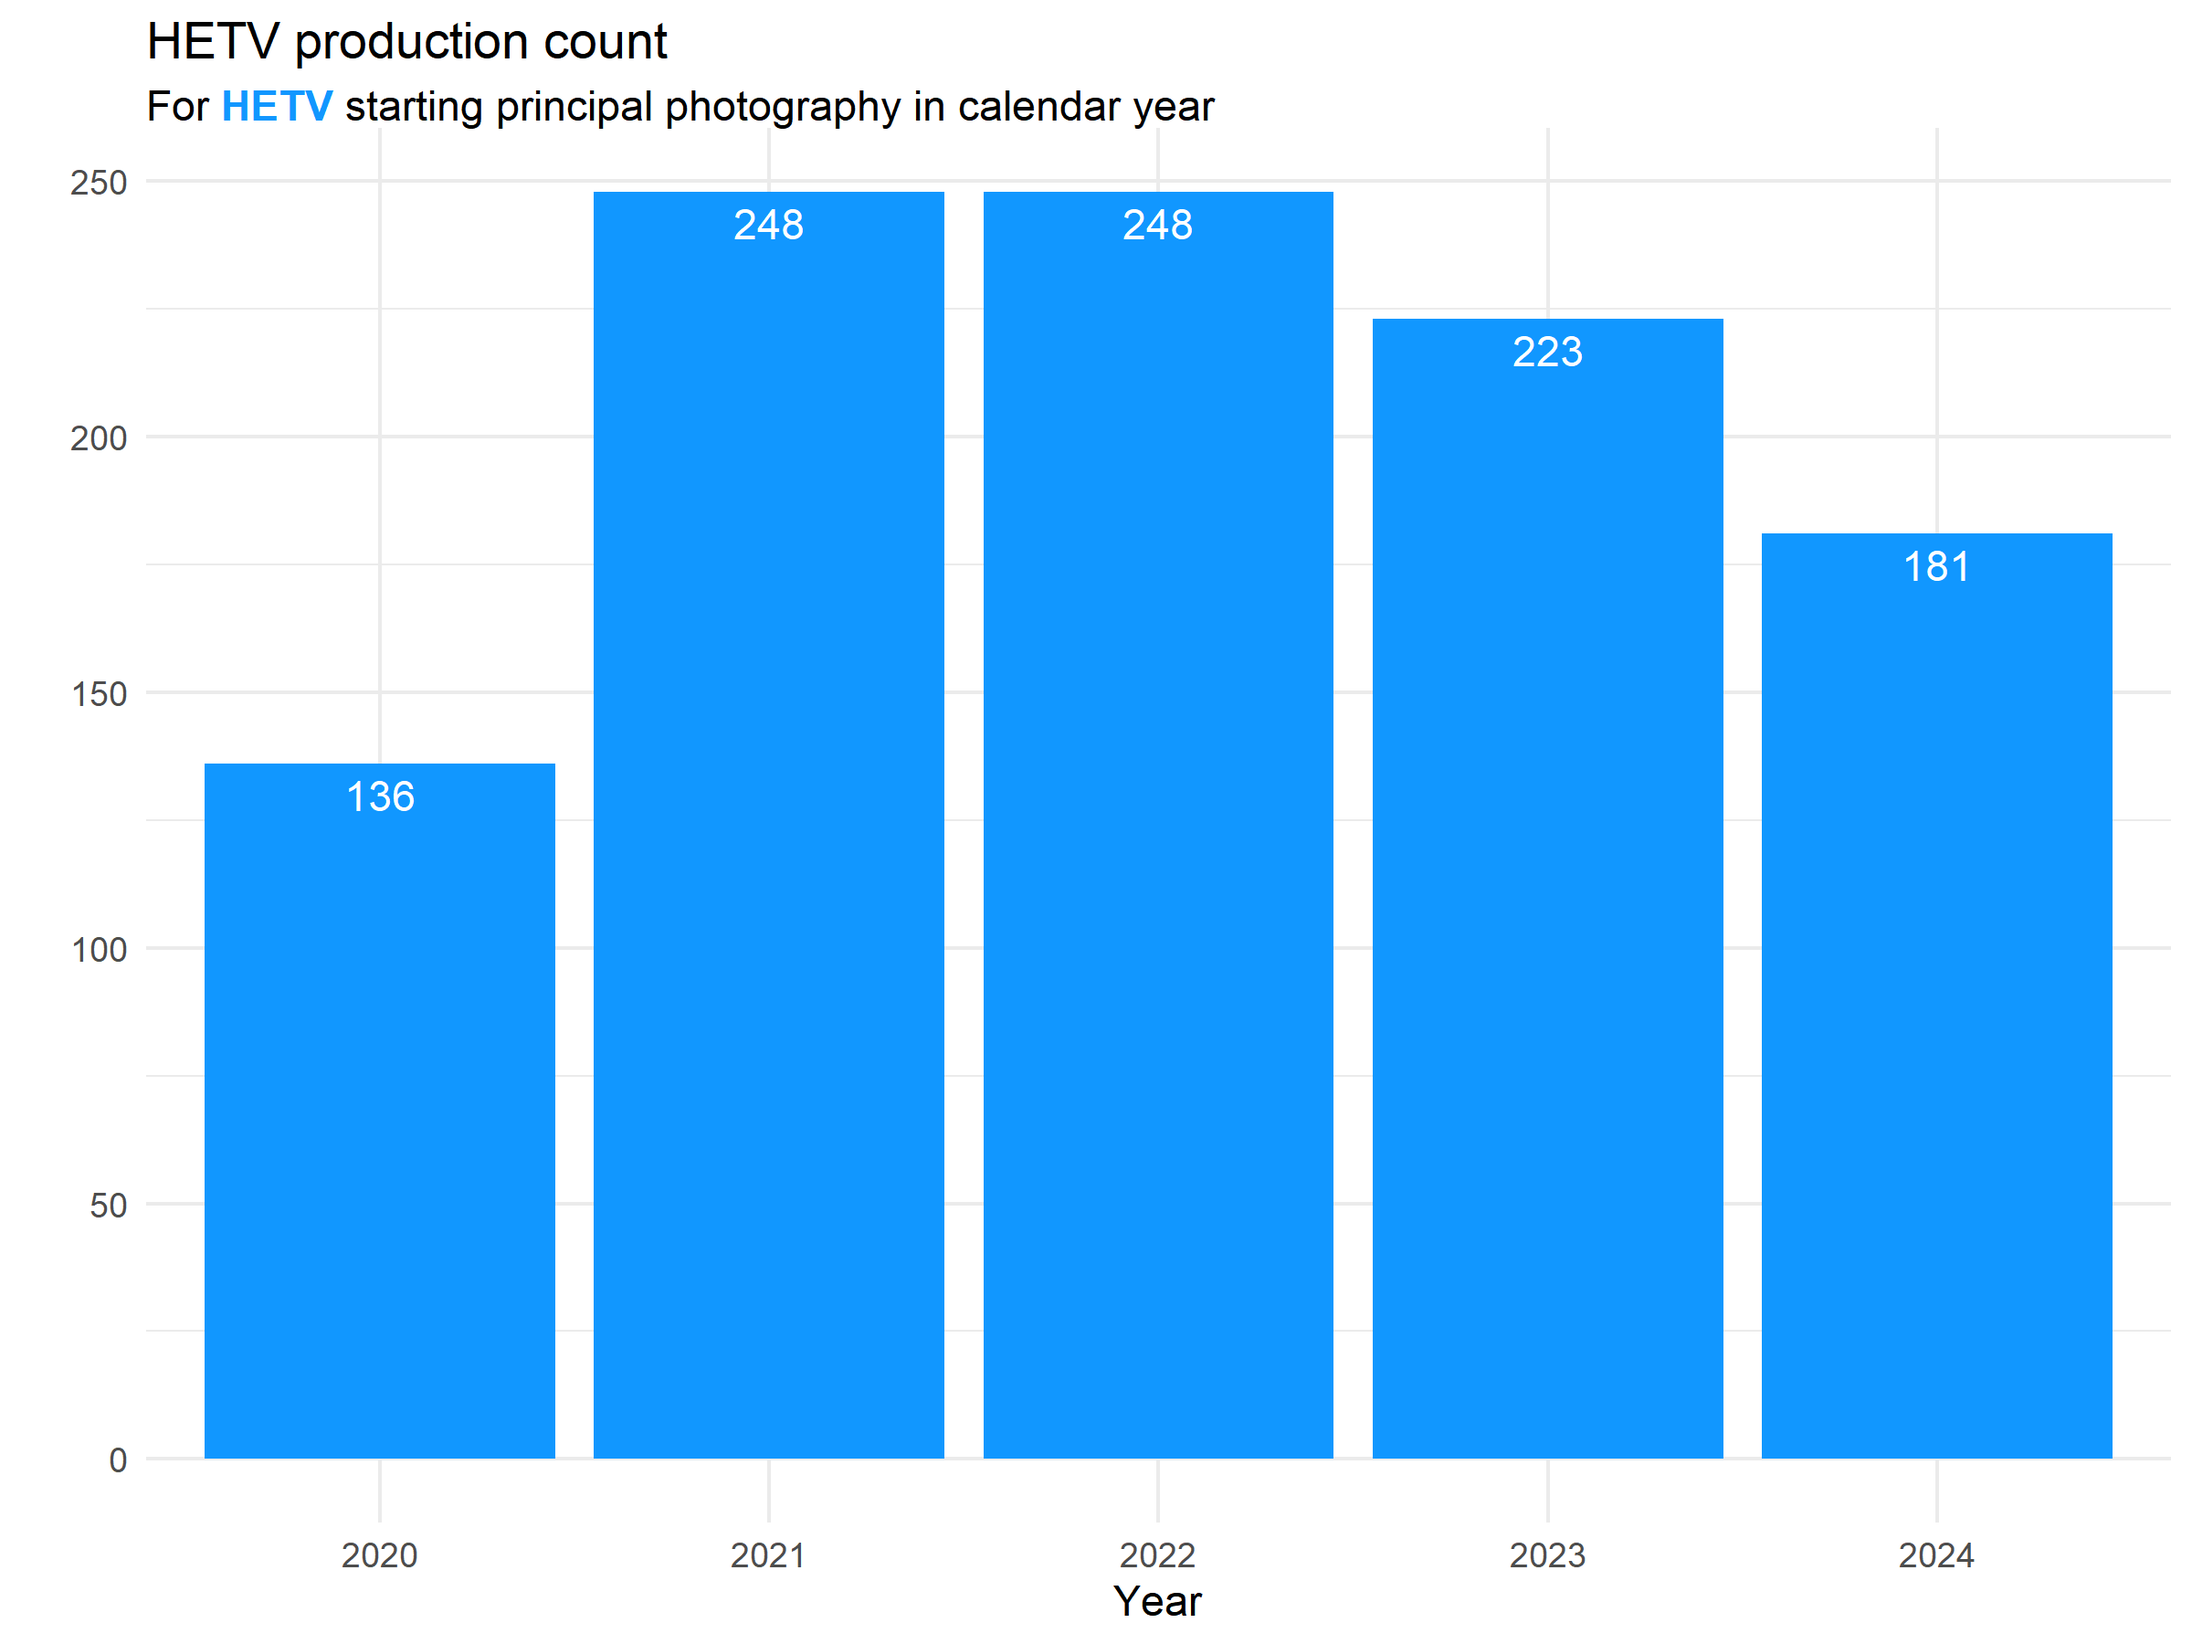
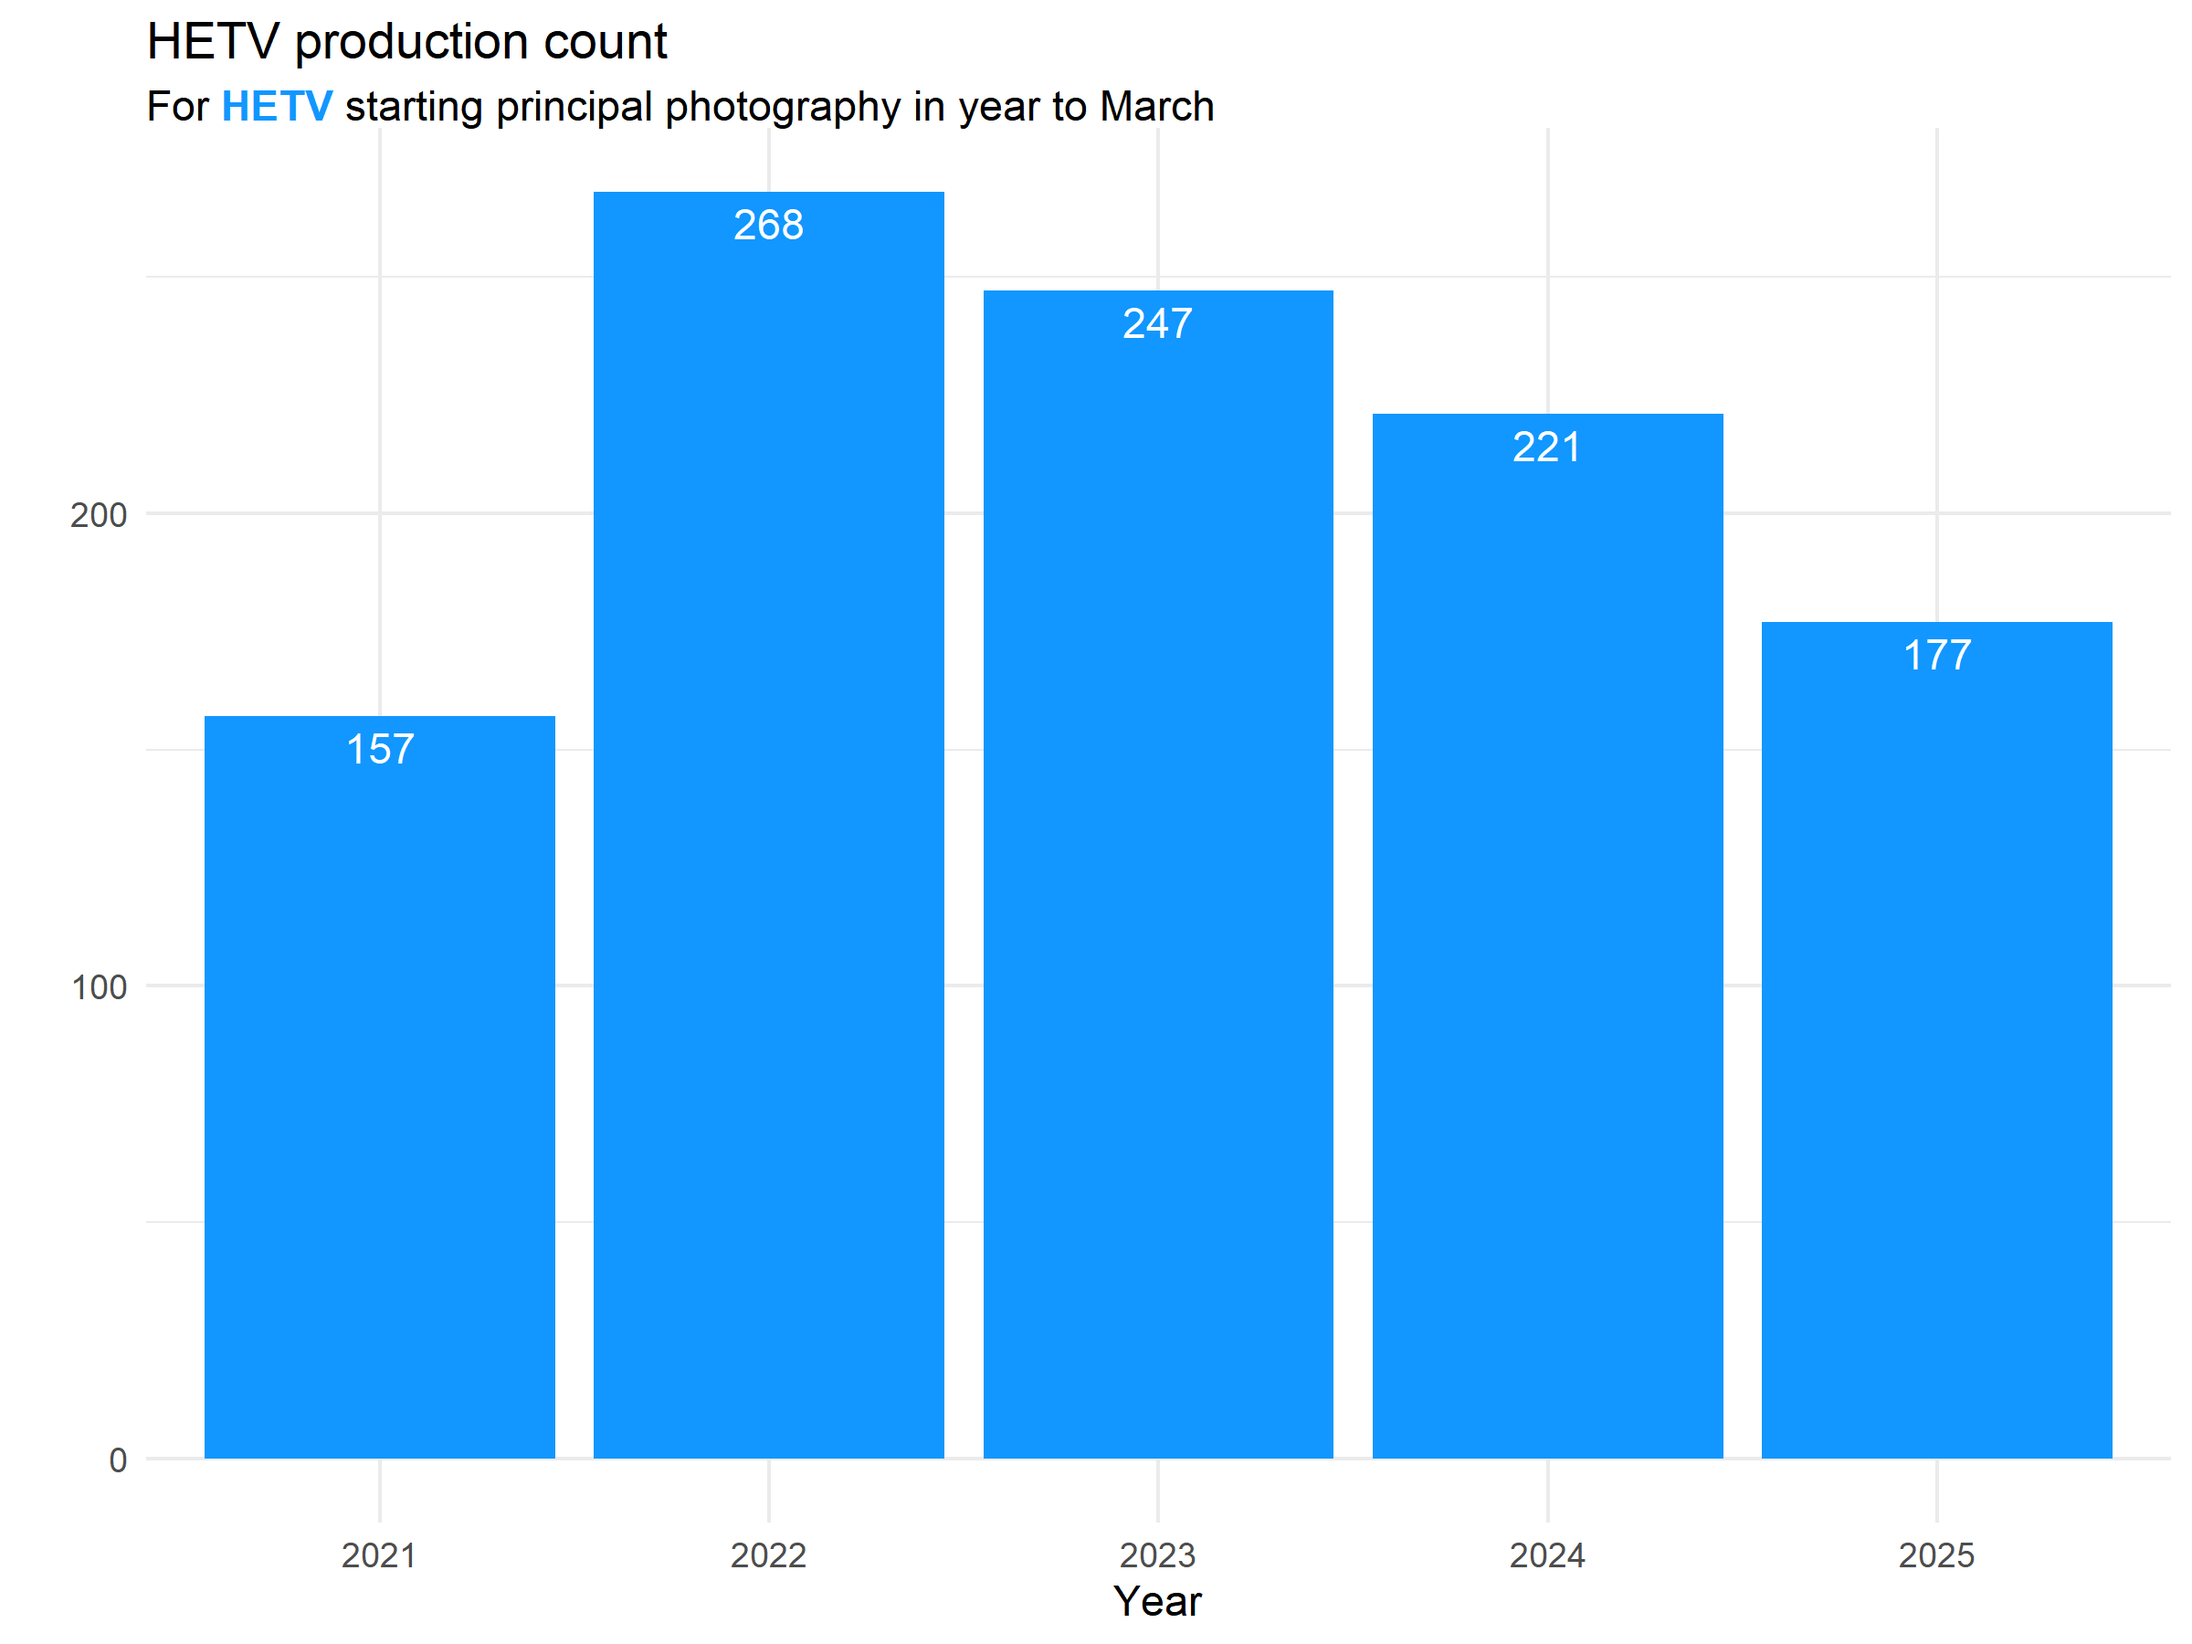
Built site for gh-pages

diff --git a/index.html b/index.html
@@ -10,9 +10,9 @@
 <link href="site_libs/quarto-html/quarto-syntax-highlighting.css" rel="stylesheet" id="quarto-text-highlighting-styles"><meta charset="utf-8">
   <meta name="generator" content="quarto-1.4.549">
 
-  <meta name="author" content="Brian Tarran">
-  <meta name="dcterms.date" content="2025-02-18">
-  <title>Full-year-stats - 2024 screen sector statistics</title>
+  <meta name="author" content="Ian Cade">
+  <meta name="dcterms.date" content="2025-06-05">
+  <title>Full-year-stats - 2025 Q1 screen sector statistics</title>
   <meta name="apple-mobile-web-app-capable" content="yes">
   <meta name="apple-mobile-web-app-status-bar-style" content="black-translucent">
   <meta name="viewport" content="width=device-width, initial-scale=1.0, maximum-scale=1.0, user-scalable=no, minimal-ui">
@@ -327,17 +327,17 @@
     <div class="slides">
 
 <section id="title-slide" data-background-color="#e50076" class="quarto-title-block center">
-  <h1 class="title">2024 screen sector statistics</h1>
+  <h1 class="title">2025 Q1 screen sector statistics</h1>
 
 <div class="quarto-title-authors">
 <div class="quarto-title-author">
 <div class="quarto-title-author-name">
-Brian Tarran 
+Ian Cade 
 </div>
 </div>
 </div>
 
-  <p class="date">February 18, 2025</p>
+  <p class="date">June 5, 2025</p>
 </section>
 <section>
 <section id="uk-box-office-and-admissions" class="title-slide slide level1 center" data-background-color="#e50076">
@@ -359,95 +359,152 @@ Brian Tarran
 <section>
 <section id="uk-and-republic-of-ireland-box-office" class="title-slide slide level1 center" data-background-color="#783df6">
 <h1>UK and Republic of Ireland box office</h1>
+<!-- ## -->
+<!-- ```{r}
+#| label: uk-roi-box-office
+#| fig-width: 8
+#| fig-height: 6
+#| fig-align: center
+#| fig-dpi: 150
 
+sheet_name <- 'uk_roi_box_office'
+df <- load_data(file_path, sheet_name)
+uk_roi_box_office()
+``` -->
+<!-- ## -->
+<!-- ```{r}
+#| label: uk-market-share
+#| fig-width: 8
+#| fig-height: 6
+#| fig-align: center
+#| fig-dpi: 150
+
+sheet_name <- 'uk_film_share'
+df <- load_data(file_path, sheet_name)
+uk_market_share()
+``` -->
+<!-- ## -->
+<!-- ```{r}
+#| label: uk-market-share-indie
+#| fig-width: 8
+#| fig-height: 6
+#| fig-align: center
+#| fig-dpi: 150
+
+uk_market_share_indie()
+``` -->
 </section>
 <section id="section-3" class="slide level2">
-<h2></h2>
-
-<img data-src="index_files/figure-revealjs/uk-roi-box-office-1.png" class="quarto-figure quarto-figure-center r-stretch" width="1200"></section>
-<section id="section-4" class="slide level2">
-<h2></h2>
-
-<img data-src="index_files/figure-revealjs/uk-market-share-1.png" class="quarto-figure quarto-figure-center r-stretch" width="1200"></section>
-<section id="section-5" class="slide level2">
-<h2></h2>
-
-<img data-src="index_files/figure-revealjs/uk-market-share-indie-1.png" class="quarto-figure quarto-figure-center r-stretch" width="1200"></section>
-<section id="section-6" class="slide level2">
 <h2></h2>
 
 <img data-src="index_files/figure-revealjs/uk-market-share-percent-1.png" class="quarto-figure quarto-figure-center r-stretch" width="1200"></section></section>
 <section>
 <section id="film-and-hetv-production-spend" class="title-slide slide level1 center" data-background-color="#1197FF">
 <h1>Film and HETV production spend</h1>
-<p><strong>Note:</strong> Production spend and count are revised over time to account for lags in obtaining complete data across all types of productions. Figures for 2024 are therefore likely to be revised upward as more information becomes available in subsequent periods.</p>
+<p><strong>Note:</strong> Production spend and count are revised over time to account for lags in obtaining complete data across all types of productions. Figures for year ending March 2025 are therefore likely to be revised upward as more information becomes available in subsequent periods.</p>
+<!-- ## -->
+<!-- ```{r}
+#| label: all-production-first
+#| fig-width: 8
+#| fig-height: 6
+#| fig-align: center
+#| fig-dpi: 150
+title <- 'UK production spend, £ million'
+subtitle <- "For film and HETV starting principal photography in calendar year, 
+            <span style='color:#783df6'>**first reported**</span>"
+all_production_first()
+``` -->
+<!-- ## -->
+<!-- ```{r}
+#| label: all-production-revised
+#| fig-width: 8
+#| fig-height: 6
+#| fig-align: center
+#| fig-dpi: 150
+
+title <- 'UK production spend, £ million' 
+subtitle <- "For film and HETV starting principal photography in calendar year, 
+            <span style='color:#783df6'>**first reported**</span> and 
+            <span style='color:darkgrey'>**revised**</span>"
+all_production_revised()
+``` -->
 </section>
-<section id="section-7" class="slide level2">
-<h2></h2>
-
-<img data-src="index_files/figure-revealjs/all-production-first-1.png" class="quarto-figure quarto-figure-center r-stretch" width="1200"></section>
-<section id="section-8" class="slide level2">
-<h2></h2>
-
-<img data-src="index_files/figure-revealjs/all-production-revised-1.png" class="quarto-figure quarto-figure-center r-stretch" width="1200"></section>
-<section id="section-9" class="slide level2">
+<section id="section-4" class="slide level2">
 <h2></h2>
 
 <img data-src="index_files/figure-revealjs/film-hetv-production-revised-1.png" class="quarto-figure quarto-figure-center r-stretch" width="1200"></section>
-<section id="section-10" class="slide level2">
+<section id="section-5" class="slide level2">
 <h2></h2>
 
 <img data-src="index_files/figure-revealjs/film-hetv-production-revised-percentage-1.png" class="quarto-figure quarto-figure-center r-stretch" width="1200"></section>
-<section id="section-11" class="slide level2">
+<section id="section-6" class="slide level2">
 <h2></h2>
 
 <img data-src="index_files/figure-revealjs/film-production-revised-1.png" class="quarto-figure quarto-figure-center r-stretch" width="1200"></section>
-<section id="section-12" class="slide level2">
+<section id="section-7" class="slide level2">
 <h2></h2>
 
 <img data-src="index_files/figure-revealjs/film-production-breakdown-revised-1.png" class="quarto-figure quarto-figure-center r-stretch" width="1200"></section>
-<section id="section-13" class="slide level2">
+<section id="section-8" class="slide level2">
 <h2></h2>
 
 <img data-src="index_files/figure-revealjs/hetv-production-revised-1.png" class="quarto-figure quarto-figure-center r-stretch" width="1200"></section>
-<section id="section-14" class="slide level2">
+<section id="section-9" class="slide level2">
 <h2></h2>
 
 <img data-src="index_files/figure-revealjs/hetv-production-breakdown-revised-1.png" class="quarto-figure quarto-figure-center r-stretch" width="1200"></section></section>
 <section>
 <section id="film-and-hetv-production-count" class="title-slide slide level1 center" data-background-color="#1197FF">
 <h1>Film and HETV production count</h1>
-<p><strong>Note:</strong> Production spend and count are revised over time to account for lags in obtaining complete data across all types of productions. Figures for 2024 are therefore likely to be revised upward as more information becomes available in subsequent periods.</p>
+<p><strong>Note:</strong> Production spend and count are revised over time to account for lags in obtaining complete data across all types of productions. Figures for year ending March 2025 are therefore likely to be revised upward as more information becomes available in subsequent periods.</p>
+<!-- ## -->
+<!-- ```{r}
+#| label: all-production-count-first
+#| fig-width: 8
+#| fig-height: 6
+#| fig-align: center
+#| fig-dpi: 150
+title <- 'UK production count'
+subtitle <- "For film and HETV starting principal photography in calendar year, 
+            <span style='color:#783df6'>**first reported**</span>"
+all_production_first()
+``` -->
+<!-- ## -->
+<!-- ```{r}
+#| label: all-production-count-revised
+#| fig-width: 8
+#| fig-height: 6
+#| fig-align: center
+#| fig-dpi: 150
+
+title <- 'UK production count'
+subtitle <- "For film and HETV starting principal photography in calendar year, 
+            <span style='color:#783df6'>**first reported**</span> and 
+            <span style='color:darkgrey'>**revised**</span>"
+all_production_revised()
+``` -->
 </section>
-<section id="section-15" class="slide level2">
-<h2></h2>
-
-<img data-src="index_files/figure-revealjs/all-production-count-first-1.png" class="quarto-figure quarto-figure-center r-stretch" width="1200"></section>
-<section id="section-16" class="slide level2">
-<h2></h2>
-
-<img data-src="index_files/figure-revealjs/all-production-count-revised-1.png" class="quarto-figure quarto-figure-center r-stretch" width="1200"></section>
-<section id="section-17" class="slide level2">
+<section id="section-10" class="slide level2">
 <h2></h2>
 
 <img data-src="index_files/figure-revealjs/film-hetv-production-count-revised-1.png" class="quarto-figure quarto-figure-center r-stretch" width="1200"></section>
-<section id="section-18" class="slide level2">
+<section id="section-11" class="slide level2">
 <h2></h2>
 
 <img data-src="index_files/figure-revealjs/film-hetv-production-count-revised-percentage-1.png" class="quarto-figure quarto-figure-center r-stretch" width="1200"></section>
-<section id="section-19" class="slide level2">
+<section id="section-12" class="slide level2">
 <h2></h2>
 
 <img data-src="index_files/figure-revealjs/film-production-count-revised-1.png" class="quarto-figure quarto-figure-center r-stretch" width="1200"></section>
-<section id="section-20" class="slide level2">
+<section id="section-13" class="slide level2">
 <h2></h2>
 
 <img data-src="index_files/figure-revealjs/film-production-count-breakdown-revised-1.png" class="quarto-figure quarto-figure-center r-stretch" width="1200"></section>
-<section id="section-21" class="slide level2">
+<section id="section-14" class="slide level2">
 <h2></h2>
 
 <img data-src="index_files/figure-revealjs/hetv-production-count-revised-1.png" class="quarto-figure quarto-figure-center r-stretch" width="1200"></section>
-<section id="section-22" class="slide level2">
+<section id="section-15" class="slide level2">
 <h2></h2>
 
 <img data-src="index_files/figure-revealjs/hetv-production-count-breakdown-revised-1.png" class="quarto-figure quarto-figure-center r-stretch" width="1200"></section></section>
